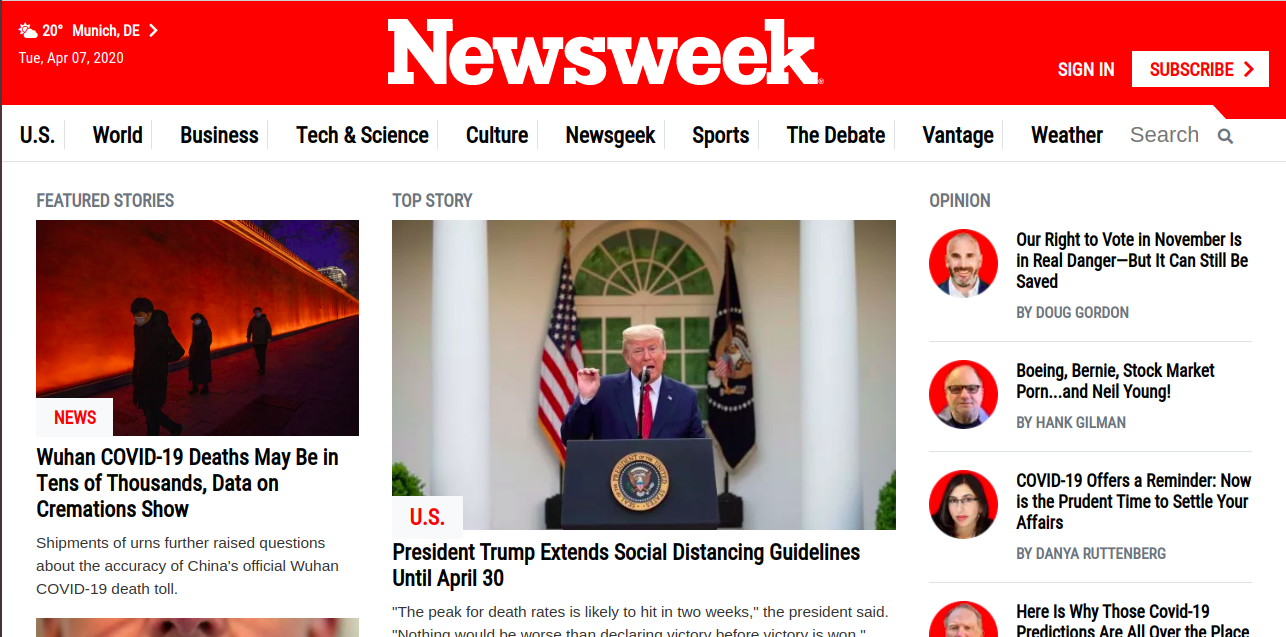
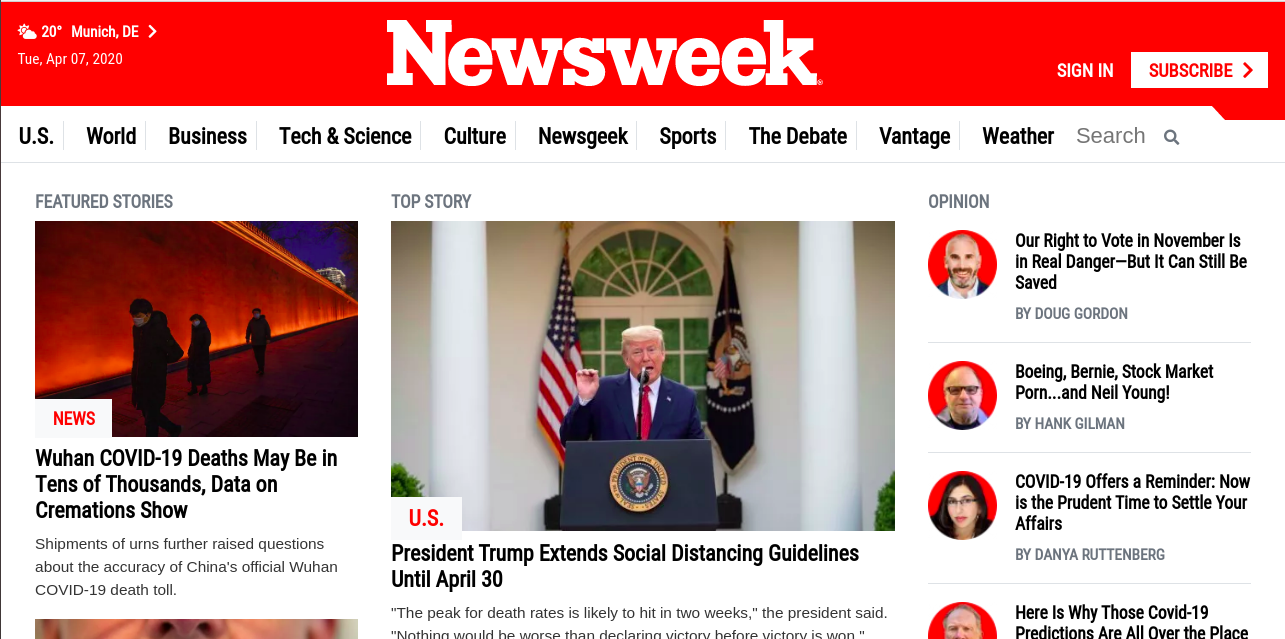
update readme and maximum size on xl screen size

diff --git a/styles.css b/styles.css
@@ -377,10 +377,6 @@ footer {
   #search-in {
     width: 80px;
   }
-
-  .opinion-box {
-    display: grid;
-  }
 }
 
 /* Large devices (laptops/desktops, 1200px and up) */
@@ -389,7 +385,7 @@ footer {
   header,
   main,
   footer {
-    min-width: 1310px;
+    max-width: 1310px;
     margin: auto;
   }
 }
